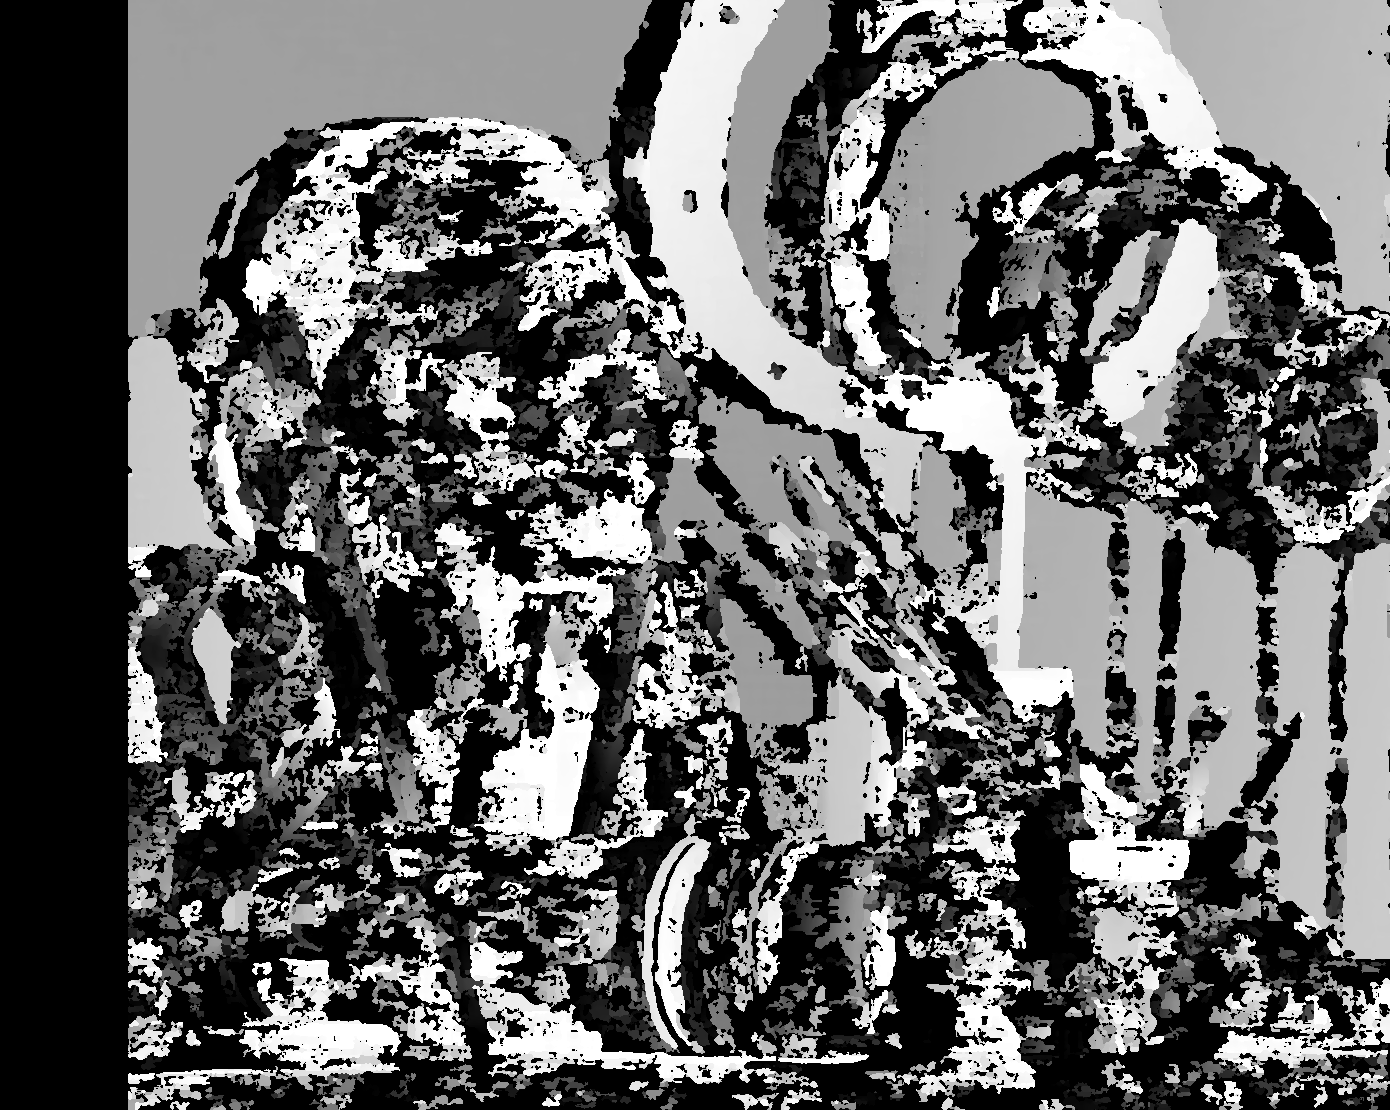
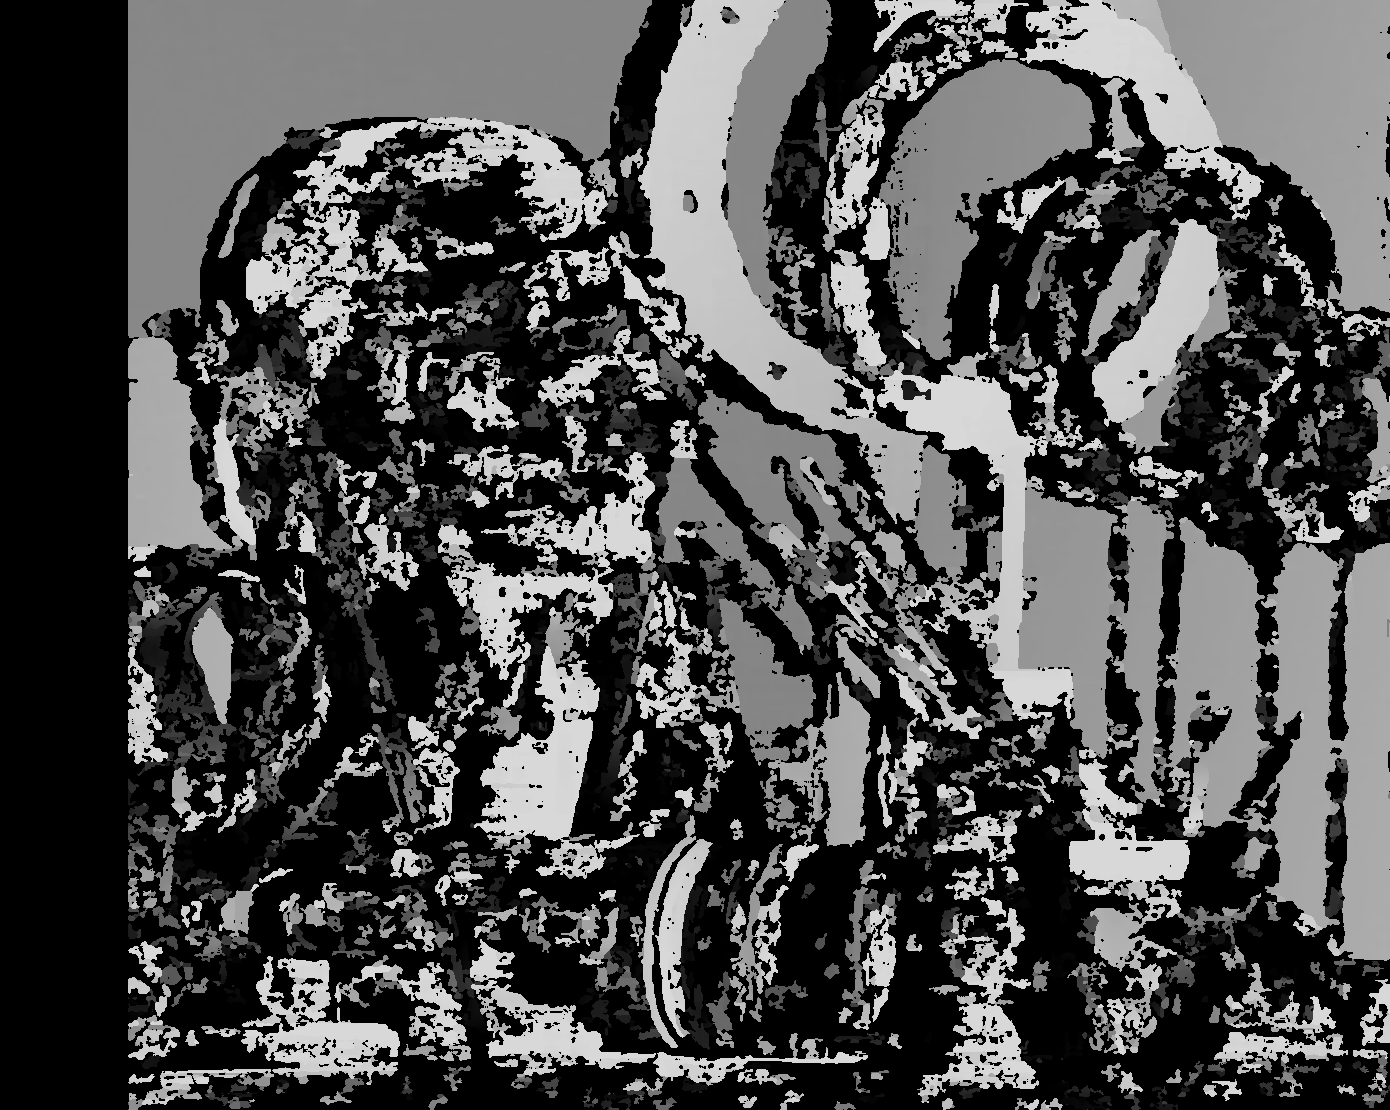
optimize openCV performance

diff --git a/openCV/code/config.py b/openCV/code/config.py
@@ -15,14 +15,14 @@ ENABLE_RECTIFICATION_WARP = False  # If True, perform stereoRectifyUncalibrated 
 
 # Denoising toggle and method.
 ENABLE_DENOISE = True             # Apply denoising before matching
-DENOISE_METHOD = "gaussian"       # "gaussian" or "median"
+DENOISE_METHOD = "median"       # "gaussian" or "median"
 GAUSSIAN_KERNEL = (3, 3)          # Gaussian kernel size
 GAUSSIAN_SIGMA = 0.0              # Gaussian sigma
 MEDIAN_KERNEL = 3                 # Median filter kernel size (odd)
 
 # Contrast enhancement (CLAHE).
 ENABLE_CLAHE = True               # Enhance local contrast to improve matching
-CLAHE_CLIP_LIMIT = 3.0            # Contrast clip limit
+CLAHE_CLIP_LIMIT = 2.0            # Contrast clip limit
 CLAHE_TILE_GRID = (8, 8)          # Tile grid size
 
 # ------------------------ SGBM parameters ------------------------
@@ -30,9 +30,9 @@ SGBM_MIN_DISPARITY = 0            # Minimum possible disparity value
 SGBM_NUM_DISPARITIES = 128        # Must be multiple of 16; search range
 SGBM_BLOCK_SIZE = 7               # Matching block size (odd)
 SGBM_P1 = 8 * SGBM_BLOCK_SIZE * SGBM_BLOCK_SIZE   # Smoothness penalty for small disparity changes
-SGBM_P2 = 32 * SGBM_BLOCK_SIZE * SGBM_BLOCK_SIZE  # Smoothness penalty for larger disparity changes
-SGBM_DISP12_MAX_DIFF = 12         # Max allowed difference in left-right disparity check inside SGBM
-SGBM_UNIQUENESS_RATIO = 8         # Uniqueness threshold; lower can increase matches but also noise
+SGBM_P2 = 40 * SGBM_BLOCK_SIZE * SGBM_BLOCK_SIZE  # Smoothness penalty for larger disparity changes
+SGBM_DISP12_MAX_DIFF = 1         # Max allowed difference in left-right disparity check inside SGBM
+SGBM_UNIQUENESS_RATIO = 10         # Uniqueness threshold; lower can increase matches but also noise
 SGBM_SPECKLE_WINDOW_SIZE = 100    # Remove speckles (small regions of noise)
 SGBM_SPECKLE_RANGE = 32           # Speckle disparity range
 SGBM_PREFILTER_CAP = 63           # Pre-filter cap
@@ -40,30 +40,34 @@ SGBM_MODE = "SGBM_3WAY"           # "SGBM" or "SGBM_3WAY"
 
 # ------------------------ Post-processing ------------------------
 # Left-right consistency check (LR-check)
-ENABLE_LR_CHECK = True
-LR_MAX_DIFF = 1.0                 # Max allowed disparity difference for LR consistency
+ENABLE_LR_CHECK = False
+LR_MAX_DIFF = 1.0                 # Max allowed disparity difference for LR consistency (slightly relaxed)
 
 # Hole filling parameters
 ENABLE_HOLE_FILL = True
 DILATE_KERNEL = (3, 3)            # Morphological dilation kernel to expand valid regions
-DILATE_ITERATIONS = 1             # Dilation iterations
-FILL_STRATEGY = "median"          # "mean" or "median" weighted neighborhood filling
-FILL_WINDOW = 5                   # Neighborhood window size for filling (odd)
+DILATE_ITERATIONS = 2             # Slightly stronger dilation to reduce tiny holes
+FILL_STRATEGY = "mean"          # "mean" or "median" neighborhood filling
+FILL_WINDOW = 3                  # Neighborhood window size for filling (odd, larger window)
 
 # Disparity smoothing
 ENABLE_SMOOTHING = True
 USE_GUIDED_FILTER = True          # Requires cv2.ximgproc; guidedFilter preserves edges
 GUIDED_RADIUS = 9                 # Guided filter radius
 GUIDED_EPS = 1e-3                 # Regularization epsilon
-USE_BILATERAL_FILTER = True       # Bilateral filter for edge-preserving smoothing
-BILATERAL_D = 9                   # Diameter of pixel neighborhood
+USE_BILATERAL_FILTER = False       # Bilateral filter for edge-preserving smoothing
+BILATERAL_D = 7                   # Diameter of pixel neighborhood (tuned)
 BILATERAL_SIGMA_COLOR = 75        # Filter sigma in the color space
 BILATERAL_SIGMA_SPACE = 75        # Filter sigma in the coordinate space
 
 # Final noise removal
-ENABLE_FINAL_MEDIAN = True
-FINAL_MEDIAN_KERNEL = 5           # Final median blur kernel size
+ENABLE_FINAL_MEDIAN = False
+FINAL_MEDIAN_KERNEL = 3           # Final median blur kernel size
 
 # ------------------------ PSNR evaluation ------------------------
 # When computing PSNR, align sizes and mask invalid pixels (e.g., zeros in GT or prediction)
 INVALID_DISPARITY_VALUE = 0       # Pixels with this value are considered invalid in masks
+
+# Align predicted disparity scale to GT for PSNR instead of per-image min-max normalization.
+PSNR_ALIGN_TO_GT = True           # Scale prediction to GT dynamic range before PSNR
+PSNR_ALIGN_PERC = 99.0            # Percentile used for robust scale estimation

diff --git a/openCV/code/stereo_pipeline.py b/openCV/code/stereo_pipeline.py
@@ -67,6 +67,8 @@ from config import (
     ENABLE_FINAL_MEDIAN,
     FINAL_MEDIAN_KERNEL,
     INVALID_DISPARITY_VALUE,
+    PSNR_ALIGN_TO_GT,
+    PSNR_ALIGN_PERC,
 )
 
 
@@ -201,11 +203,15 @@ def hole_fill(disp, valid_mask):
     h, w = disp.shape
     for y in range(h):
         for x in range(w):
-            if valid_dilated[y, x] == 0:
+            # Fill pixels that were invalid in the original mask (source of holes)
+            if valid_mask[y, x] == 0:
                 y0, y1 = max(0, y - half), min(h, y + half + 1)
                 x0, x1 = max(0, x - half), min(w, x + half + 1)
                 neigh = disp[y0:y1, x0:x1]
+                # Prefer original valid pixels; if none exist, allow dilated as donors
                 neigh_mask = valid_mask[y0:y1, x0:x1]
+                if not np.any(neigh_mask):
+                    neigh_mask = valid_dilated[y0:y1, x0:x1]
                 vals = neigh[neigh_mask == 1]
                 if vals.size > 0:
                     if FILL_STRATEGY == "mean":
@@ -232,10 +238,8 @@ def smooth_disparity(disp, guide):
             pass
     # Bilateral filter (edge-preserving)
     if USE_BILATERAL_FILTER:
-        disp_u8 = cv2.normalize(out, None, 0, 255, cv2.NORM_MINMAX).astype(np.uint8)
-        disp_u8 = cv2.bilateralFilter(disp_u8, BILATERAL_D, BILATERAL_SIGMA_COLOR, BILATERAL_SIGMA_SPACE)
-        # map back to float scale
-        out = disp_u8.astype(np.float32)
+        # Apply bilateral directly on float map to avoid rescaling artifacts
+        out = cv2.bilateralFilter(out.astype(np.float32), BILATERAL_D, BILATERAL_SIGMA_COLOR, BILATERAL_SIGMA_SPACE)
     return out
 
 
@@ -280,6 +284,30 @@ def compute_psnr_with_mask(gt, pred):
     return psnr
 
 
+def scale_pred_to_gt_u8(pred_float, gt_u8):
+    """Scale predicted float disparity to GT 0..255 space for fair PSNR.
+
+    Uses robust percentile-based scaling to limit outliers' influence.
+    """
+    if not PSNR_ALIGN_TO_GT:
+        # fallback to simple visualization normalization
+        return normalize_to_uint8(pred_float)
+    eps = 1e-6
+    # robust max from percentiles
+    gt_valid = gt_u8[gt_u8 != INVALID_DISPARITY_VALUE].astype(np.float32)
+    if gt_valid.size == 0:
+        return normalize_to_uint8(pred_float)
+    gt_p = np.percentile(gt_valid, PSNR_ALIGN_PERC)
+    pred_valid = pred_float[pred_float > eps].astype(np.float32)
+    if pred_valid.size == 0:
+        return normalize_to_uint8(pred_float)
+    pred_p = float(np.percentile(pred_valid, PSNR_ALIGN_PERC))
+    scale = gt_p / max(pred_p, eps)
+    pred_scaled = pred_float * scale
+    pred_scaled_u8 = np.clip(pred_scaled, 0, 255).astype(np.uint8)
+    return pred_scaled_u8
+
+
 def main():
     ensure_results_dir()
     loader = ImageLoader()
@@ -308,8 +336,8 @@ def main():
     # Step 5: SGBM
     disp_l, disp_r = compute_sgbm(left_p, right_p)
 
-    # Raw visualization
-    disp_raw_vis = normalize_to_uint8(disp_l)
+    # Raw visualization aligned to GT scale for fair PSNR
+    disp_raw_vis = scale_pred_to_gt_u8(disp_l, gt_g)
     cv2.imwrite("results/disp_pred_raw.png", disp_raw_vis)
 
     # Step 6: LR consistency
@@ -324,8 +352,8 @@ def main():
     # Step 9: final median denoise
     disp_final = final_median(disp_smooth)
 
-    # Save refined
-    disp_ref_vis = normalize_to_uint8(disp_final)
+    # Save refined (aligned to GT scale)
+    disp_ref_vis = scale_pred_to_gt_u8(disp_final, gt_g)
     cv2.imwrite("results/disp_pred_refined.png", disp_ref_vis)
 
     # Step 10: PSNR
